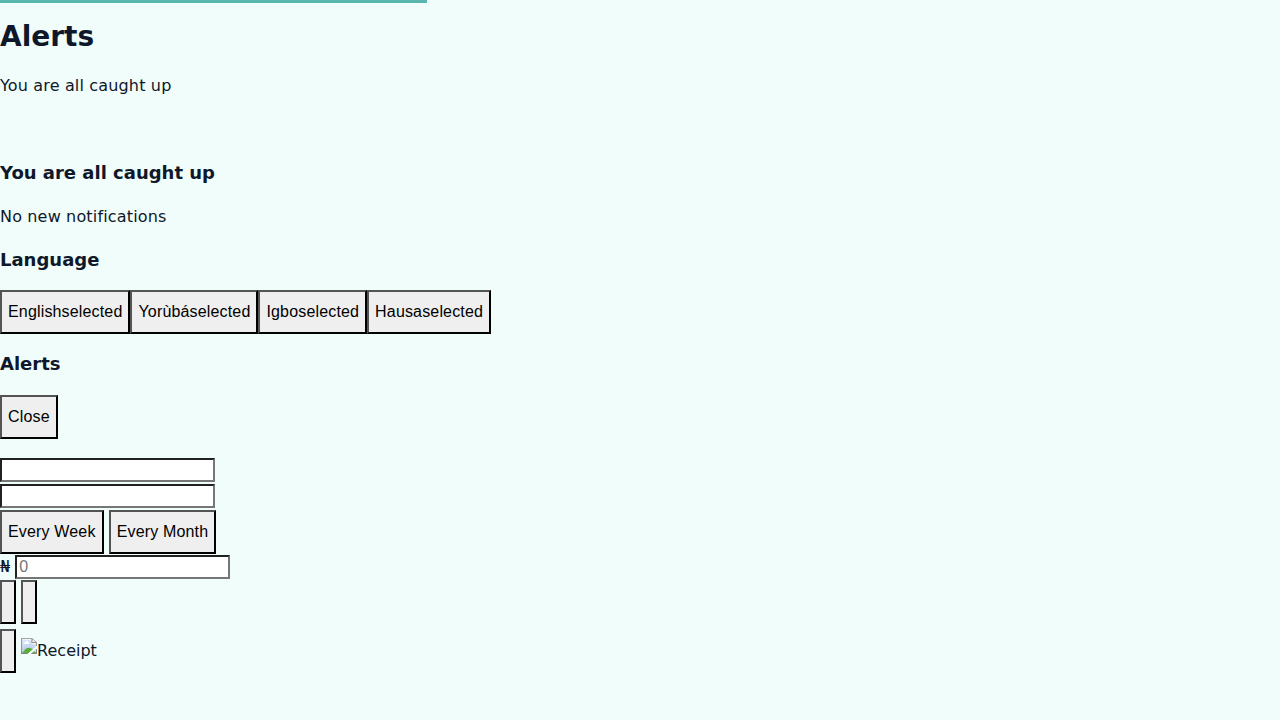
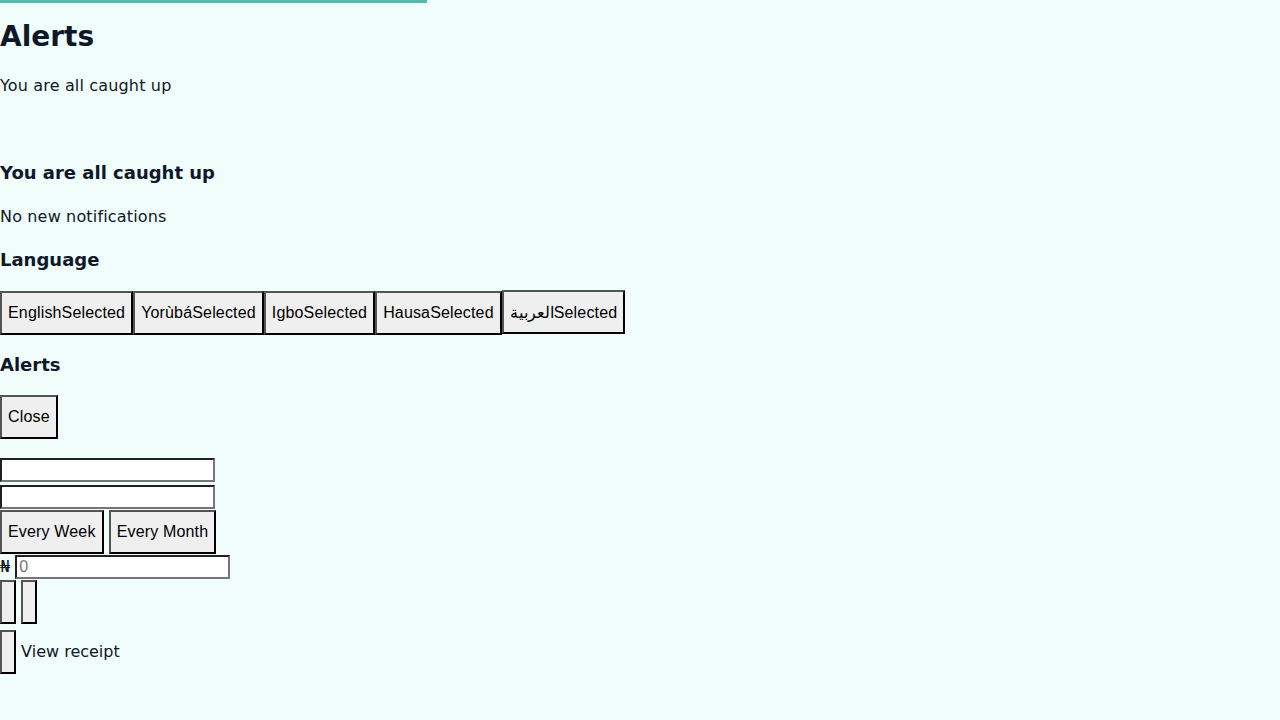
feat: finalize i18n parity, rtl language option, and translated UI strings
Agent-Logs-Url: https://github.com/codetesla51/fam_proj_ui/sessions/112c73ca-face-41b1-88f3-dcf97e559bad

Changed region(s): [[0.0, 0.3972, 0.5, 0.4889], [0.0, 0.8861, 0.0938, 0.9167], [0.0, 0.4889, 0.0625, 0.5194]]

diff --git a/playwright-report/index.html b/playwright-report/index.html
@@ -87,4 +87,4 @@ Error generating stack: `+l.message+`
     <div id='root'></div>
   </body>
 </html>
[2 lines of base64/hex data omitted]

diff --git a/js/pages.js b/js/pages.js
@@ -79,15 +79,15 @@ const Skeletons = {
 
 // Helper to clean reason text
 function cleanReason(reason, type) {
-    if (!reason) return type === 'credit' ? 'Money In' : 'Money Out';
+    if (!reason) return type === 'credit' ? t('table.moneyIn') : t('table.moneyOut');
     const r = reason.toLowerCase();
-    if (r.includes('transfer from pool2 to pool1') || r.includes('transfer from pool2')) return 'Transfer to Family Savings';
-    if (r.includes('transfer from pool1 to pool2') || r.includes('transfer from pool1')) return 'Transfer to Personal Savings';
-    if (r === 'pool2') return 'Personal Savings Deposit';
-    if (r === 'pool1') return 'Family Savings Deposit';
-    if (r.includes('care fund approved') || r.includes('care fund')) return 'Care Fund Withdrawal';
-    if (r.includes('contribution')) return 'Contribution';
-    if (r.includes('withdrawal')) return 'Withdrawal';
+    if (r.includes('transfer from pool2 to pool1') || r.includes('transfer from pool2')) return t('member.familySavings');
+    if (r.includes('transfer from pool1 to pool2') || r.includes('transfer from pool1')) return t('member.personalSavings');
+    if (r === 'pool2') return t('member.personalSavings');
+    if (r === 'pool1') return t('member.familySavings');
+    if (r.includes('care fund approved') || r.includes('care fund')) return t('careFund.requestHelp');
+    if (r.includes('contribution')) return t('table.moneyIn');
+    if (r.includes('withdrawal')) return t('table.moneyOut');
     // Remove amount suffix like ": 50" from transfer reasons
     return reason.replace(/:\s*\d+(\.\d+)?$/, '').trim() || reason;
 }
@@ -597,8 +597,8 @@ const pages = {
                                         <p class="text-xs text-text-muted">${pMemberName} • ${formatDate(pCreated)}</p>
                                     </div>
                                     <div class="flex items-center gap-2">
-                                        ${pReceiptUrl ? `<button onclick="showReceiptImage('${pReceiptUrl}')" class="p-2 rounded-lg bg-brand/10 text-brand hover:bg-brand hover:text-white transition-all" title="View Receipt">${Icons.fileText()}</button>` : ''}
-                                        ${!pReceiptUrl && pReceiptData ? `<button onclick="showTransferReceiptData('${p.id || p.ID}', '${encodeURIComponent(pReceiptData)}')" class="p-2 rounded-lg bg-brand/10 text-brand hover:bg-brand hover:text-white transition-all" title="View Receipt">${Icons.fileText()}</button>` : ''}
+                                        ${pReceiptUrl ? `<button onclick="showReceiptImage('${pReceiptUrl}')" class="p-2 rounded-lg bg-brand/10 text-brand hover:bg-brand hover:text-white transition-all" title="${t('common.viewReceipt')}">${Icons.fileText()}</button>` : ''}
+                                        ${!pReceiptUrl && pReceiptData ? `<button onclick="showTransferReceiptData('${p.id || p.ID}', '${encodeURIComponent(pReceiptData)}')" class="p-2 rounded-lg bg-brand/10 text-brand hover:bg-brand hover:text-white transition-all" title="${t('common.viewReceipt')}">${Icons.fileText()}</button>` : ''}
                                         <p class="text-sm font-bold whitespace-nowrap ${pType === 'credit' || pReason?.includes('Transfer from pool2') ? 'text-success' : 'text-error'}">
                                             ${pType === 'credit' || pReason?.includes('Transfer from pool2') ? '+' : '-'}${formatMoney(pAmount, { compact: true })}
                                         </p>
@@ -678,8 +678,8 @@ const pages = {
                                 <div class="text-right flex items-center gap-2">
                                     <div>
                                         <p class="text-lg font-bold ${txType === 'credit' ? 'text-success' : 'text-error'}">${txType === 'credit' ? '+' : '-'}${formatMoney(txAmount, { compact: true })}</p>
-                                        ${txReceiptUrl ? `<button onclick="showReceiptImage('${txReceiptUrl}')" class="p-2 rounded-lg bg-brand/10 text-brand hover:bg-brand hover:text-white transition-all" title="View Receipt">${Icons.fileText()}</button>` : ''}
-                                        ${!txReceiptUrl && txReceiptData ? `<button onclick="showTransferReceiptData('${tx.id || tx.ID}', '${encodeURIComponent(txReceiptData)}')" class="p-2 rounded-lg bg-brand/10 text-brand hover:bg-brand hover:text-white transition-all" title="View Receipt">${Icons.fileText()}</button>` : ''}
+                                        ${txReceiptUrl ? `<button onclick="showReceiptImage('${txReceiptUrl}')" class="p-2 rounded-lg bg-brand/10 text-brand hover:bg-brand hover:text-white transition-all" title="${t('common.viewReceipt')}">${Icons.fileText()}</button>` : ''}
+                                        ${!txReceiptUrl && txReceiptData ? `<button onclick="showTransferReceiptData('${tx.id || tx.ID}', '${encodeURIComponent(txReceiptData)}')" class="p-2 rounded-lg bg-brand/10 text-brand hover:bg-brand hover:text-white transition-all" title="${t('common.viewReceipt')}">${Icons.fileText()}</button>` : ''}
                                     </div>
                                 </div>
                             </div>
@@ -964,8 +964,8 @@ const pages = {
                                     <p class="text-xs text-text-muted">${p.member_name || 'Family member'} • ${formatDate(p.created_at)}</p>
                                 </div>
                                 <div class="flex items-center gap-2">
-                                    ${p.receipt_url ? `<a href="${p.receipt_url}" target="_blank" class="p-2 text-brand hover:text-brand-hover" title="View Receipt">${Icons.fileText()}</a>` : ''}
-                                    ${!p.receipt_url && p.receiptData ? `<button onclick="showTransferReceiptData('${p.id}', '${encodeURIComponent(p.receiptData || '')}')" class="p-2 text-brand hover:text-brand-hover" title="View Receipt">${Icons.fileText()}</button>` : ''}
+                                    ${p.receipt_url ? `<a href="${p.receipt_url}" target="_blank" class="p-2 text-brand hover:text-brand-hover" title="${t('common.viewReceipt')}">${Icons.fileText()}</a>` : ''}
+                                    ${!p.receipt_url && p.receiptData ? `<button onclick="showTransferReceiptData('${p.id}', '${encodeURIComponent(p.receiptData || '')}')" class="p-2 text-brand hover:text-brand-hover" title="${t('common.viewReceipt')}">${Icons.fileText()}</button>` : ''}
                                     <p class="text-sm font-bold whitespace-nowrap ${p.type === 'credit' || p.reason?.includes('Transfer from pool2') ? 'text-success' : 'text-error'}">
                                         ${p.type === 'credit' || p.reason?.includes('Transfer from pool2') ? '+' : '-'}${formatMoney(p.amount, { compact: true })}
                                     </p>
@@ -1425,8 +1425,8 @@ const pages = {
                             <div class="flex items-center gap-3">
                                 <label class="flex h-12 cursor-pointer items-center justify-center gap-2 rounded-2xl border-2 border-dashed border-border bg-surface-soft px-4 text-sm font-medium text-text-secondary hover:border-brand hover:text-brand transition-all select-none">
                                     ${Icons.paperclip()}
-                                    <span id="receipt-label">Choose file</span>
-                                    <input type="file" id="txn-receipt" accept="image/*,.pdf" class="hidden" onchange="document.getElementById('receipt-label').textContent = this.files[0]?.name || 'Choose file'">
+                                    <span id="receipt-label">${t('transaction.attachProof')}</span>
+                                    <input type="file" id="txn-receipt" accept="image/*,.pdf" class="hidden" onchange="document.getElementById('receipt-label').textContent = this.files[0]?.name || t('transaction.attachProof')">
                                 </label>
                                 <span class="text-xs text-text-muted">Photo or PDF</span>
                             </div>
@@ -1460,7 +1460,7 @@ const pages = {
                         </div>
                         <div>
                             <p class="text-lg font-bold">${name}</p>
-                            <p class="text-sm text-text-muted">${p.start_date ? 'Started: ' + formatDate(p.start_date) : t('settings.contactManager')}</p>
+                            <p class="text-sm text-text-muted">${p.start_date ? t('table.date') + ': ' + formatDate(p.start_date) : t('settings.contactManager')}</p>
                         </div>
                     </div>
                 </div>
@@ -1625,9 +1625,9 @@ const pages = {
             
             <!-- Type Filter -->
             <div class="w-full min-w-0 mb-4 flex gap-2">
-                ${typeBtn('all', 'All Requests')}
-                ${typeBtn('care_fund', 'Family Help')}
-                ${typeBtn('withdrawal', 'Withdrawals')}
+                ${typeBtn('all', t('table.all'))}
+                ${typeBtn('care_fund', t('careFund.requestHelp'))}
+                ${typeBtn('withdrawal', t('careFund.requestHelp'))}
             </div>
             
             <div class="w-full min-w-0 space-y-3">
@@ -1652,7 +1652,7 @@ const pages = {
                                         <h3 class="font-semibold text-text-primary truncate">${memberName}</h3>
                                         <p class="text-xs text-text-muted flex items-center gap-1">
                                             <span class="px-1.5 py-0.5 rounded text-[10px] font-medium ${(r.Type || r.type) === 'care_fund' ? 'bg-brand/10 text-brand' : 'bg-pool2/10 text-pool2'}">
-                                                ${(r.Type || r.type) === 'care_fund' ? 'Family Help' : 'Withdrawal'}
+                                                ${(r.Type || r.type) === 'care_fund' ? t('careFund.requestHelp') : t('table.moneyOut')}
                                             </span>
                                             ${occasion ? (t('occasions.' + occasion) || occasion) : ''} • ${eventDate ? formatDate(eventDate) : ''}
                                         </p>

diff --git a/index.html b/index.html
@@ -532,7 +532,8 @@
                 { code: 'en', name: 'English' },
                 { code: 'yo', name: 'Yorùbá' },
                 { code: 'ig', name: 'Igbo' },
-                { code: 'ha', name: 'Hausa' }
+                { code: 'ha', name: 'Hausa' },
+                { code: 'ar', name: 'العربية' }
             ];
             container.innerHTML = langs.map(function(lang) {
                 return '<button onclick="setLang(\'' + lang.code + '\')" aria-current="' + (lang.code === (localStorage.getItem('language') || 'en') ? 'true' : 'false') + '" class="flex w-full items-center justify-between rounded-xl px-4 py-4 text-left hover:bg-surface-soft">' +
